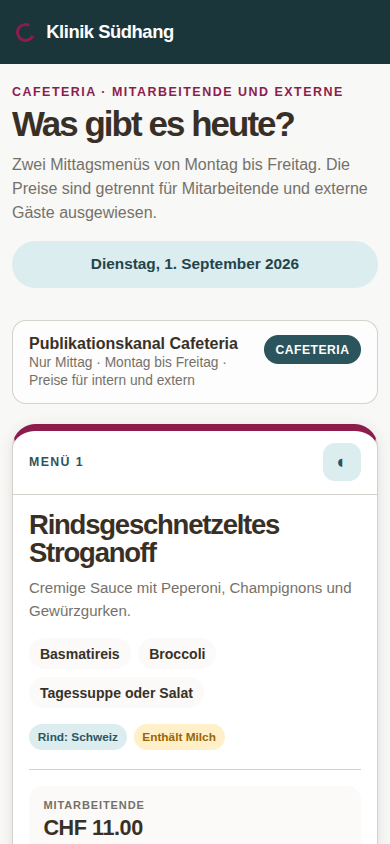
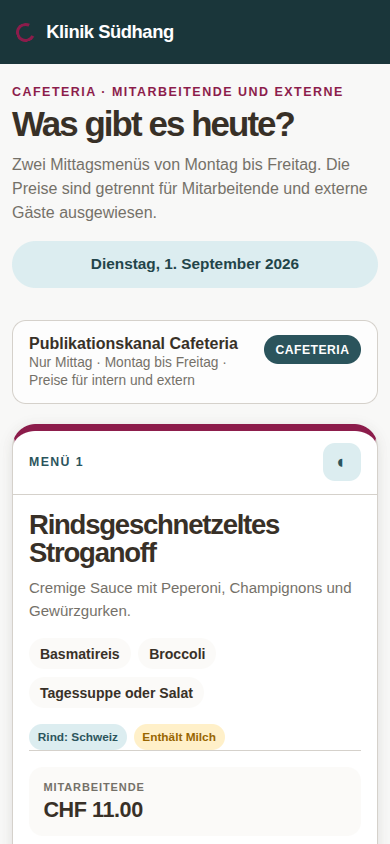
style: align price rows to card bottom via flexbox
- Menu cards now use flexbox layout (flex-direction: column)
- Price rows pushed to bottom with margin-top: auto
- Grid cards use align-items: stretch for uniform height
- Applies to cafeteria today, week views and patient cards
- No template changes, CSS only
- Regenerated 2 affected screenshots

Claude-Session: https://claude.ai/code/session_011cyKE583xefZWtVa7mvnfx

Changed region(s): [[0.0923, 0.9242, 0.3692, 1.0]]

diff --git a/reference_scaffold/cafeteria/static/app.css b/reference_scaffold/cafeteria/static/app.css
@@ -164,15 +164,15 @@ p { text-wrap: pretty; }
 .profile-pill { flex: 0 0 auto; padding: .48rem .72rem; border-radius: 999px; color: var(--sh-white) !important; background: var(--sh-teal-800); font-size: .76rem !important; font-weight: 850; letter-spacing: .04em; text-transform: uppercase; }
 .profile-pill.patient { background: var(--sh-blue); }
 
-.menu-grid { display: grid; grid-template-columns: repeat(2, minmax(0, 1fr)); gap: 1.35rem; }
-.menu-card { overflow: hidden; border: 1px solid var(--sh-border); border-radius: var(--sh-radius-lg); background: var(--sh-panel); box-shadow: var(--sh-shadow); }
+.menu-grid { display: grid; grid-template-columns: repeat(2, minmax(0, 1fr)); gap: 1.35rem; align-items: stretch; }
+.menu-card { display: flex; flex-direction: column; overflow: hidden; border: 1px solid var(--sh-border); border-radius: var(--sh-radius-lg); background: var(--sh-panel); box-shadow: var(--sh-shadow); }
 .menu-card.meat { border-top: 7px solid var(--sh-magenta); }
 .menu-card.veggie { border-top: 7px solid var(--sh-green); }
 .menu-card-head { display: flex; justify-content: space-between; align-items: center; min-height: 70px; padding: 1rem 1.35rem; border-bottom: 1px solid var(--sh-border); }
 .menu-type { margin: 0; color: var(--sh-teal-800); font-size: .77rem; font-weight: 900; letter-spacing: .115em; text-transform: uppercase; }
 .menu-icon { display: grid; place-items: center; width: 38px; height: 38px; border-radius: 12px; color: var(--sh-teal-800); background: var(--sh-teal-100); font-size: 1.18rem; }
 .menu-icon.veg { color: var(--sh-green); background: var(--sh-green-soft); }
-.menu-card-body { padding: 1.35rem; }
+.menu-card-body { display: flex; flex-direction: column; flex: 1; padding: 1.35rem; }
 .menu-title { margin: 0 0 .6rem; font-size: clamp(1.55rem, 3.2vw, 2.55rem); line-height: 1.03; letter-spacing: -.045em; }
 .menu-description { margin: 0 0 1rem; color: var(--sh-ink-muted); font-size: 1.02rem; line-height: 1.48; }
 .components { display: flex; flex-wrap: wrap; gap: .48rem; margin: 0; padding: 0; list-style: none; }
@@ -182,7 +182,7 @@ p { text-wrap: pretty; }
 .label.green { color: var(--sh-green); background: var(--sh-green-soft); }
 .label.amber { color: var(--sh-amber); background: var(--sh-amber-soft); }
 .label.blue { color: var(--sh-blue); background: var(--sh-blue-soft); }
-.price-row { display: grid; grid-template-columns: repeat(2, minmax(0, 1fr)); gap: .75rem; margin-top: 1.15rem; padding-top: 1rem; border-top: 1px solid var(--sh-border); }
+.price-row { display: grid; grid-template-columns: repeat(2, minmax(0, 1fr)); gap: .75rem; margin-top: auto; padding-top: 1rem; border-top: 1px solid var(--sh-border); }
 .price { padding: .82rem .9rem; border-radius: 14px; background: var(--sh-panel-soft); }
 .price span { display: block; color: var(--sh-ink-muted); font-size: .69rem; font-weight: 850; letter-spacing: .08em; text-transform: uppercase; }
 .price strong { display: block; margin-top: .25rem; font-size: 1.35rem; letter-spacing: -.02em; }
@@ -211,15 +211,15 @@ p { text-wrap: pretty; }
 .week-day > header { display: flex; justify-content: space-between; align-items: center; padding: .8rem 1rem; background: var(--sh-teal-050); border-bottom: 1px solid var(--sh-border); }
 .week-day > header h2 { margin: 0; font-size: 1.08rem; }
 .week-day > header span { color: var(--sh-ink-muted); font-size: .82rem; }
-.week-day-grid { display: grid; grid-template-columns: 130px repeat(2, minmax(0, 1fr)); }
+.week-day-grid { display: grid; grid-template-columns: 130px repeat(2, minmax(0, 1fr)); align-items: stretch; }
 .week-meal-label { display: flex; align-items: center; padding: .95rem 1rem; color: var(--sh-teal-800); background: var(--sh-panel-quiet); font-weight: 850; }
-.week-menu { padding: .95rem 1rem; border-left: 1px solid var(--sh-border); }
+.week-menu { display: flex; flex-direction: column; padding: .95rem 1rem; border-left: 1px solid var(--sh-border); }
 .week-menu-type { display: block; margin-bottom: .32rem; color: var(--sh-teal-700); font-size: .68rem; font-weight: 900; letter-spacing: .085em; line-height: 1.1; text-transform: uppercase; }
 .week-menu strong { display: block; line-height: 1.2; }
 .week-menu span { display: block; margin-top: .3rem; color: var(--sh-ink-muted); font-size: .79rem; }
 .week-row + .week-row { border-top: 1px solid var(--sh-border); }
 .week-row { display: contents; }
-.week-price { margin-top: .45rem; color: var(--sh-teal-900) !important; font-weight: 800; }
+.week-price { margin-top: auto; color: var(--sh-teal-900) !important; font-weight: 800; }
 .closed-row { grid-column: 2 / -1; padding: 1rem; color: var(--sh-ink-muted); border-left: 1px solid var(--sh-border); }
 .empty-state { padding: clamp(1.5rem, 4vw, 3rem); border: 1px dashed var(--sh-border); border-radius: var(--sh-radius-lg); text-align: center; background: var(--sh-panel); }
 .empty-state h2 { margin: 0; }

diff --git a/design/prototype/assets/app.css b/design/prototype/assets/app.css
@@ -110,15 +110,15 @@ button, input, select, textarea { font: inherit; }
 .profile-pill { flex: 0 0 auto; padding: .48rem .72rem; border-radius: 999px; color: #fff !important; background: var(--sh-teal-800); font-size: .76rem !important; font-weight: 850; letter-spacing: .04em; text-transform: uppercase; }
 .profile-pill.patient { background: var(--sh-blue); }
 
-.menu-grid { display: grid; grid-template-columns: repeat(2, minmax(0, 1fr)); gap: 1.35rem; }
-.menu-card { overflow: hidden; border: 1px solid var(--sh-border); border-radius: var(--sh-radius-lg); background: var(--sh-panel); box-shadow: var(--sh-shadow); }
+.menu-grid { display: grid; grid-template-columns: repeat(2, minmax(0, 1fr)); gap: 1.35rem; align-items: stretch; }
+.menu-card { display: flex; flex-direction: column; overflow: hidden; border: 1px solid var(--sh-border); border-radius: var(--sh-radius-lg); background: var(--sh-panel); box-shadow: var(--sh-shadow); }
 .menu-card.meat { border-top: 7px solid var(--sh-magenta); }
 .menu-card.veggie { border-top: 7px solid var(--sh-green); }
 .menu-card-head { display: flex; justify-content: space-between; align-items: center; min-height: 70px; padding: 1rem 1.35rem; border-bottom: 1px solid var(--sh-border); }
 .menu-type { margin: 0; color: var(--sh-teal-800); font-size: .77rem; font-weight: 900; letter-spacing: .115em; text-transform: uppercase; }
 .menu-icon { display: grid; place-items: center; width: 38px; height: 38px; border-radius: 12px; color: var(--sh-teal-800); background: var(--sh-teal-100); font-size: 1.18rem; }
 .menu-icon.veg { color: var(--sh-green); background: var(--sh-green-soft); }
-.menu-card-body { padding: 1.35rem; }
+.menu-card-body { display: flex; flex-direction: column; flex: 1; padding: 1.35rem; }
 .menu-title { margin: 0 0 .6rem; font-size: clamp(1.55rem, 3.2vw, 2.55rem); line-height: 1.03; letter-spacing: -.045em; }
 .menu-description { margin: 0 0 1rem; color: var(--sh-ink-muted); font-size: 1.02rem; line-height: 1.48; }
 .components { display: flex; flex-wrap: wrap; gap: .48rem; margin: 0; padding: 0; list-style: none; }
@@ -128,7 +128,7 @@ button, input, select, textarea { font: inherit; }
 .label.green { color: var(--sh-green); background: var(--sh-green-soft); }
 .label.amber { color: var(--sh-amber); background: var(--sh-amber-soft); }
 .label.blue { color: var(--sh-blue); background: var(--sh-blue-soft); }
-.price-row { display: grid; grid-template-columns: repeat(2, minmax(0, 1fr)); gap: .75rem; margin-top: 1.15rem; padding-top: 1rem; border-top: 1px solid var(--sh-border); }
+.price-row { display: grid; grid-template-columns: repeat(2, minmax(0, 1fr)); gap: .75rem; margin-top: auto; padding-top: 1rem; border-top: 1px solid var(--sh-border); }
 .price { padding: .82rem .9rem; border-radius: 14px; background: var(--sh-panel-soft); }
 .price span { display: block; color: var(--sh-ink-muted); font-size: .69rem; font-weight: 850; letter-spacing: .08em; text-transform: uppercase; }
 .price strong { display: block; margin-top: .25rem; font-size: 1.35rem; letter-spacing: -.02em; }
